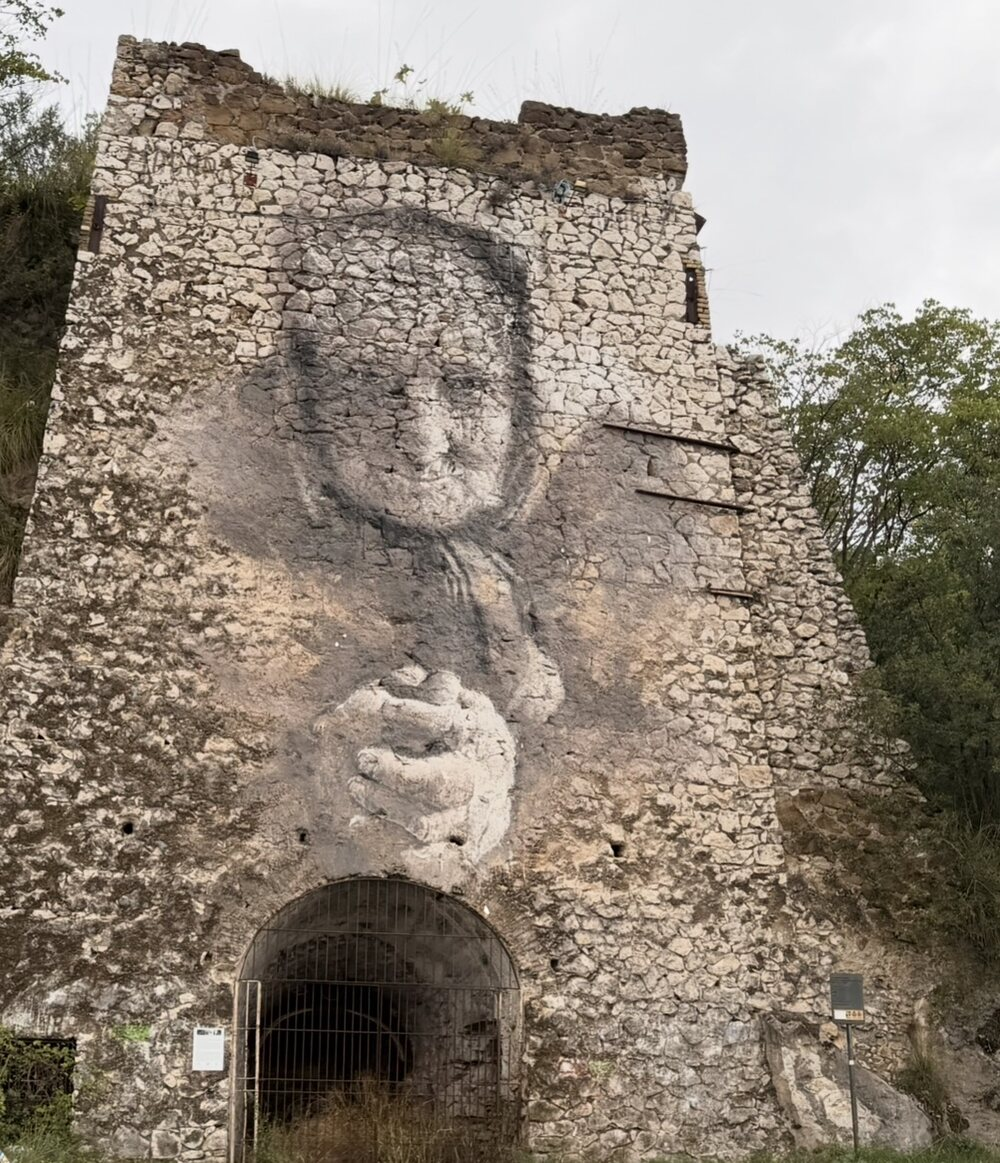
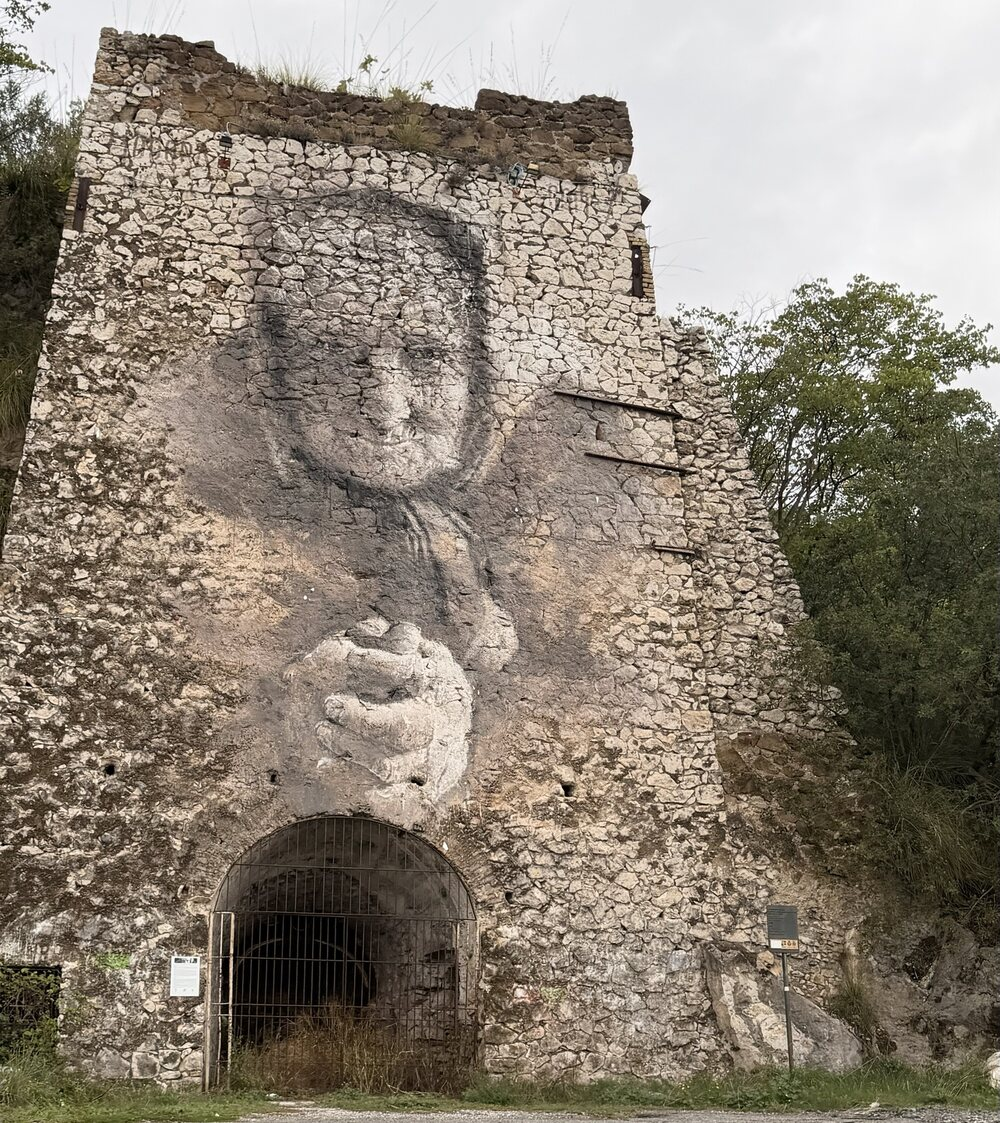
Anteprima Chi sono: nuova foto della torre intera e titolo Le mie radici sopra il racconto
Claude-Session: https://claude.ai/code/session_01FDBtRT6D6wSxFjEGHStC1T

diff --git a/static/css/style.css b/static/css/style.css
@@ -548,7 +548,7 @@ section.block.roots-sec{padding-block:56px 72px;border-top:1px solid var(--line)
 @media (max-width:760px){
   section.block.roots-sec{padding-block:40px 56px}
   .roots{grid-template-columns:1fr;gap:22px}
-  .roots-photo img{aspect-ratio:1070/1244;max-height:none}
+  .roots-photo img{aspect-ratio:1300/1460;max-height:none}
 }
 .roots.roots-solo{grid-template-columns:1fr;max-width:46rem}
 
@@ -636,7 +636,7 @@ section.block.teaser-sec{padding-top:0}
   section.block.roots-sec{min-height:calc(100svh - var(--navh,65px));display:flex;flex-direction:column;justify-content:center;padding-block:22px}
   .roots{grid-template-columns:minmax(0,min(300px,calc((100svh - var(--navh,65px) - 420px) * .86))) minmax(0,1fr);column-gap:48px;row-gap:14px;align-items:center}
   .roots-head{margin-bottom:0}
-  .roots-photo img{aspect-ratio:1070/1244;object-position:center}
+  .roots-photo img{aspect-ratio:1300/1460;object-position:center}
   .roots-txt{gap:10px}
   .roots-lead{font-size:1.12rem;line-height:1.5;max-width:46rem}
   .roots .roots-lead + .roots-lead{margin-top:0}
@@ -647,4 +647,12 @@ section.block.teaser-sec{padding-top:0}
   .names-list dt{font-size:1.25rem}
   .names-list dd{font-size:.88rem;line-height:1.45}
   .names-close{font-size:1.02rem;line-height:1.45}
+}
+/* Chi sono su computer: titolo "Le mie radici" sopra il racconto, accanto alla foto */
+@media (min-width:961px){
+  .roots{grid-template-rows:auto auto auto;align-items:start}
+  .roots .roots-photo{grid-column:1;grid-row:1 / span 2;align-self:center}
+  .roots .roots-head{grid-column:2;grid-row:1;align-self:end;margin:0}
+  .roots .roots-txt{grid-column:2;grid-row:2;align-self:start}
+  .roots .names{grid-row:3}
 }
